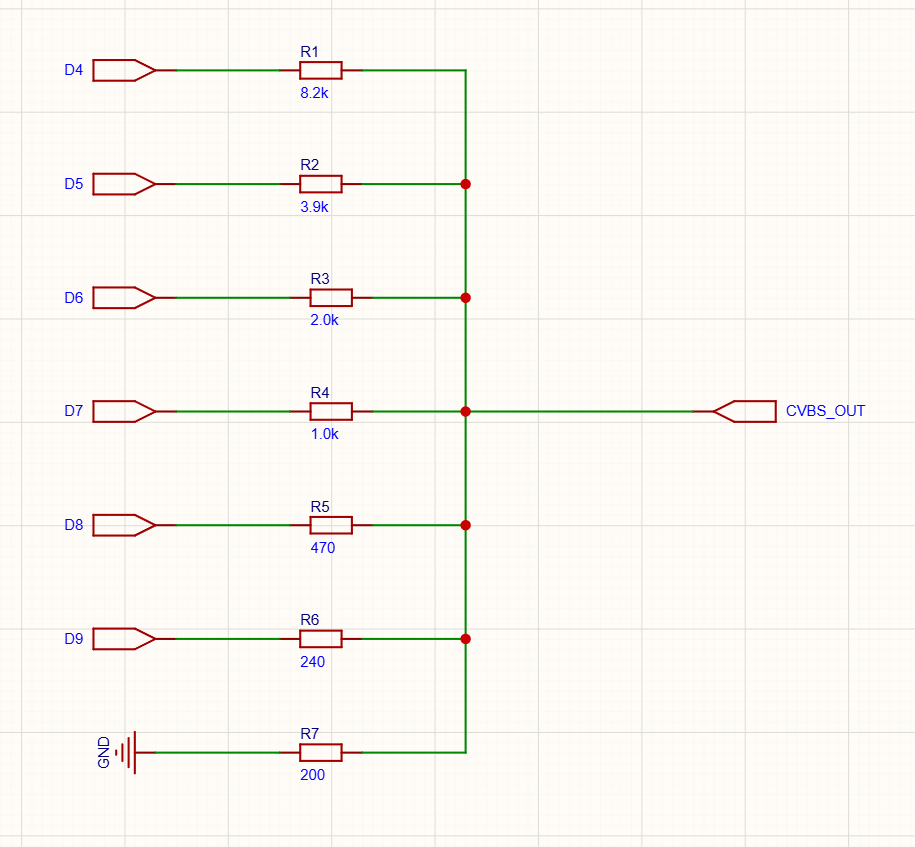
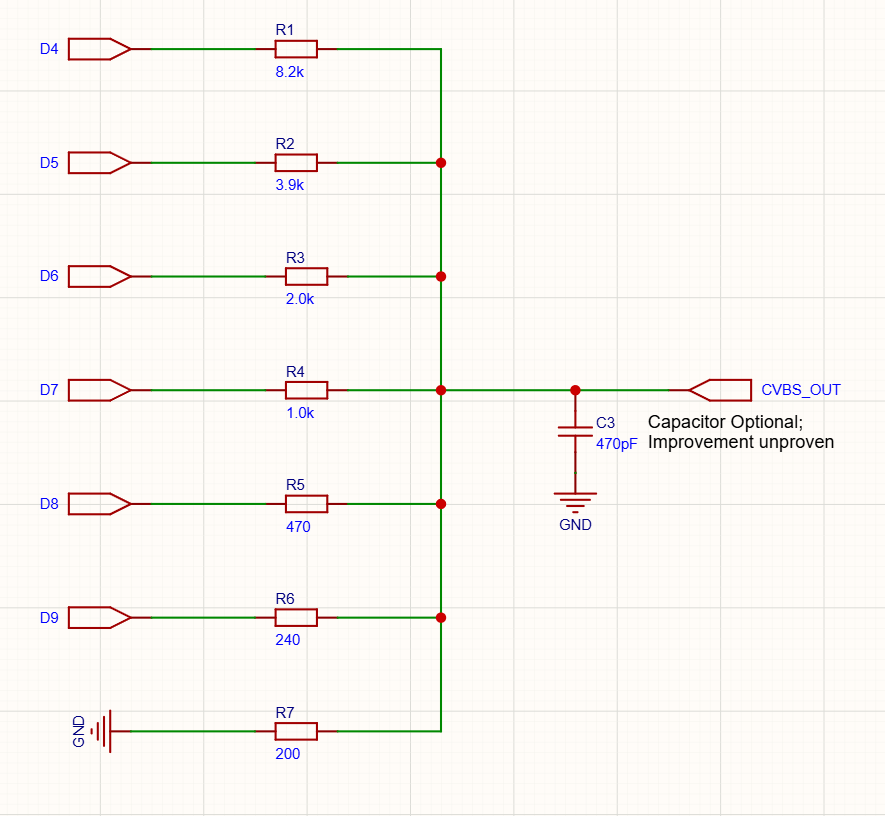
docs: show optional 470 pF output capacitor in DAC schematic
Replace the schematic with the revision that draws C3 (470 pF from
CVBS_OUT to GND), marked optional with an unproven improvement, and
update the README caption to match.

Changed region(s): [[0.0305, 0.0306, 0.9458, 0.9498]]

diff --git a/README.md b/README.md
@@ -199,9 +199,9 @@ Connect a 6-bit binary-weighted resistor DAC ladder to the XIAO pins, meeting at
 | **D9** | GPIO 9  | Bit 5 (MSB) | 240 Ω |
 | **GND** | GND | Ground | Ground reference |
 
-![6-bit resistor DAC schematic: D4..D9 through 8.2k, 3.9k, 2.0k, 1.0k, 470 and 240 ohm to CVBS_OUT, with a 200 ohm shunt to GND](docs/hardware/c5vrx-dac-schematic.png)
+![6-bit resistor DAC schematic: D4..D9 through 8.2k, 3.9k, 2.0k, 1.0k, 470 and 240 ohm to CVBS_OUT, with a 200 ohm shunt to GND and an optional 470 pF capacitor to GND](docs/hardware/c5vrx-dac-schematic.png)
 
-`CVBS_OUT` in the schematic is the `VIDEO` node. The 470 pF output-filter capacitor (item 2 below) is not drawn.
+`CVBS_OUT` in the schematic is the `VIDEO` node. C3 is the 470 pF output filter from item 2 below; the drawing marks it optional because its improvement is unproven.
 
 ### Output network and controls
 1. **Video level**: The reference circuit uses a 200 ohm shunt at `VIDEO`; the connected display or goggles may add their own 75 ohm termination. Check the resulting level with the load you use.
